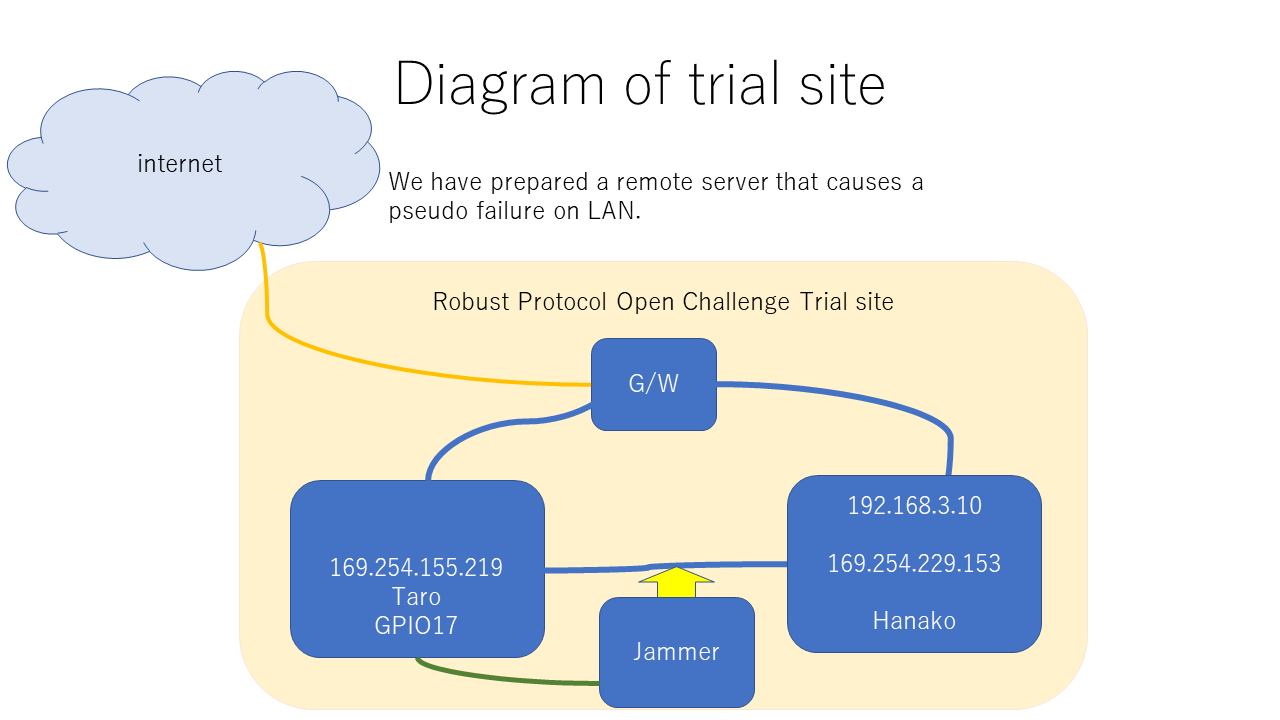
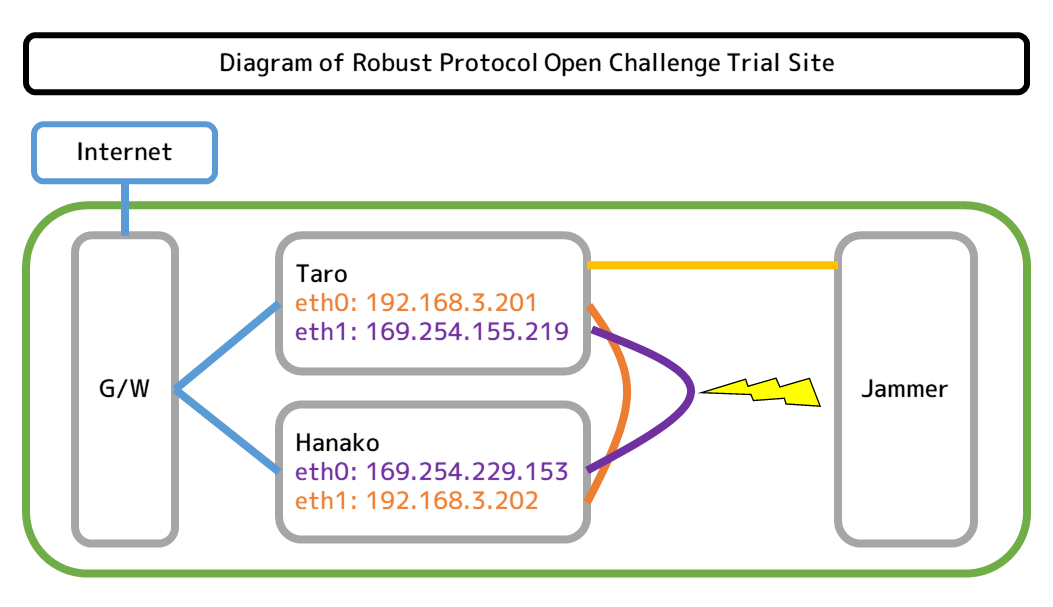
Replaced diagram of trial site to update Hanako's IP

diff --git a/README.md b/README.md
@@ -42,10 +42,7 @@ Currently, following languages can be used to implement the protocol.
 
 ### Diagram of Trial Site
 
-![Figure 4](img/fig4_new.png) 
-
-**Hanako's eth1 IP address is 192.168.3.202**  
-**TBD: Update diagram**
+![Figure 4](img/fig4.png)
 
 ### Photo of Trial Site
 
